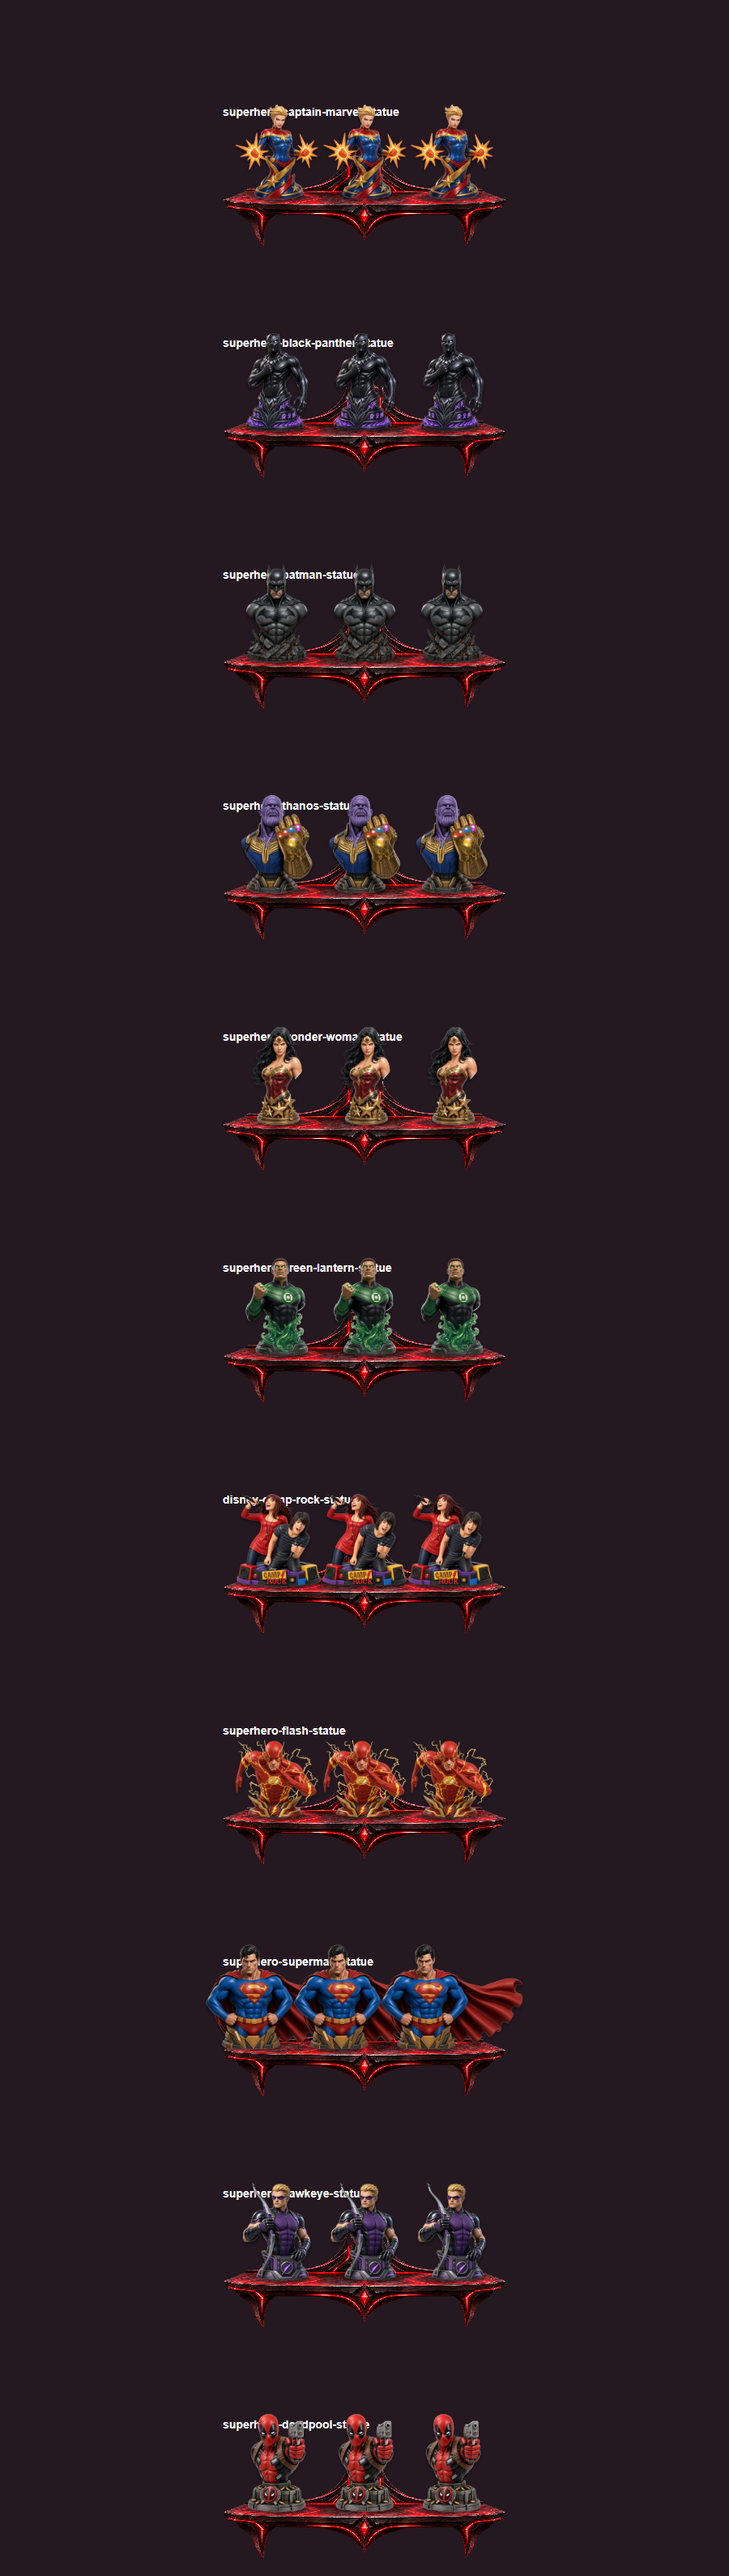
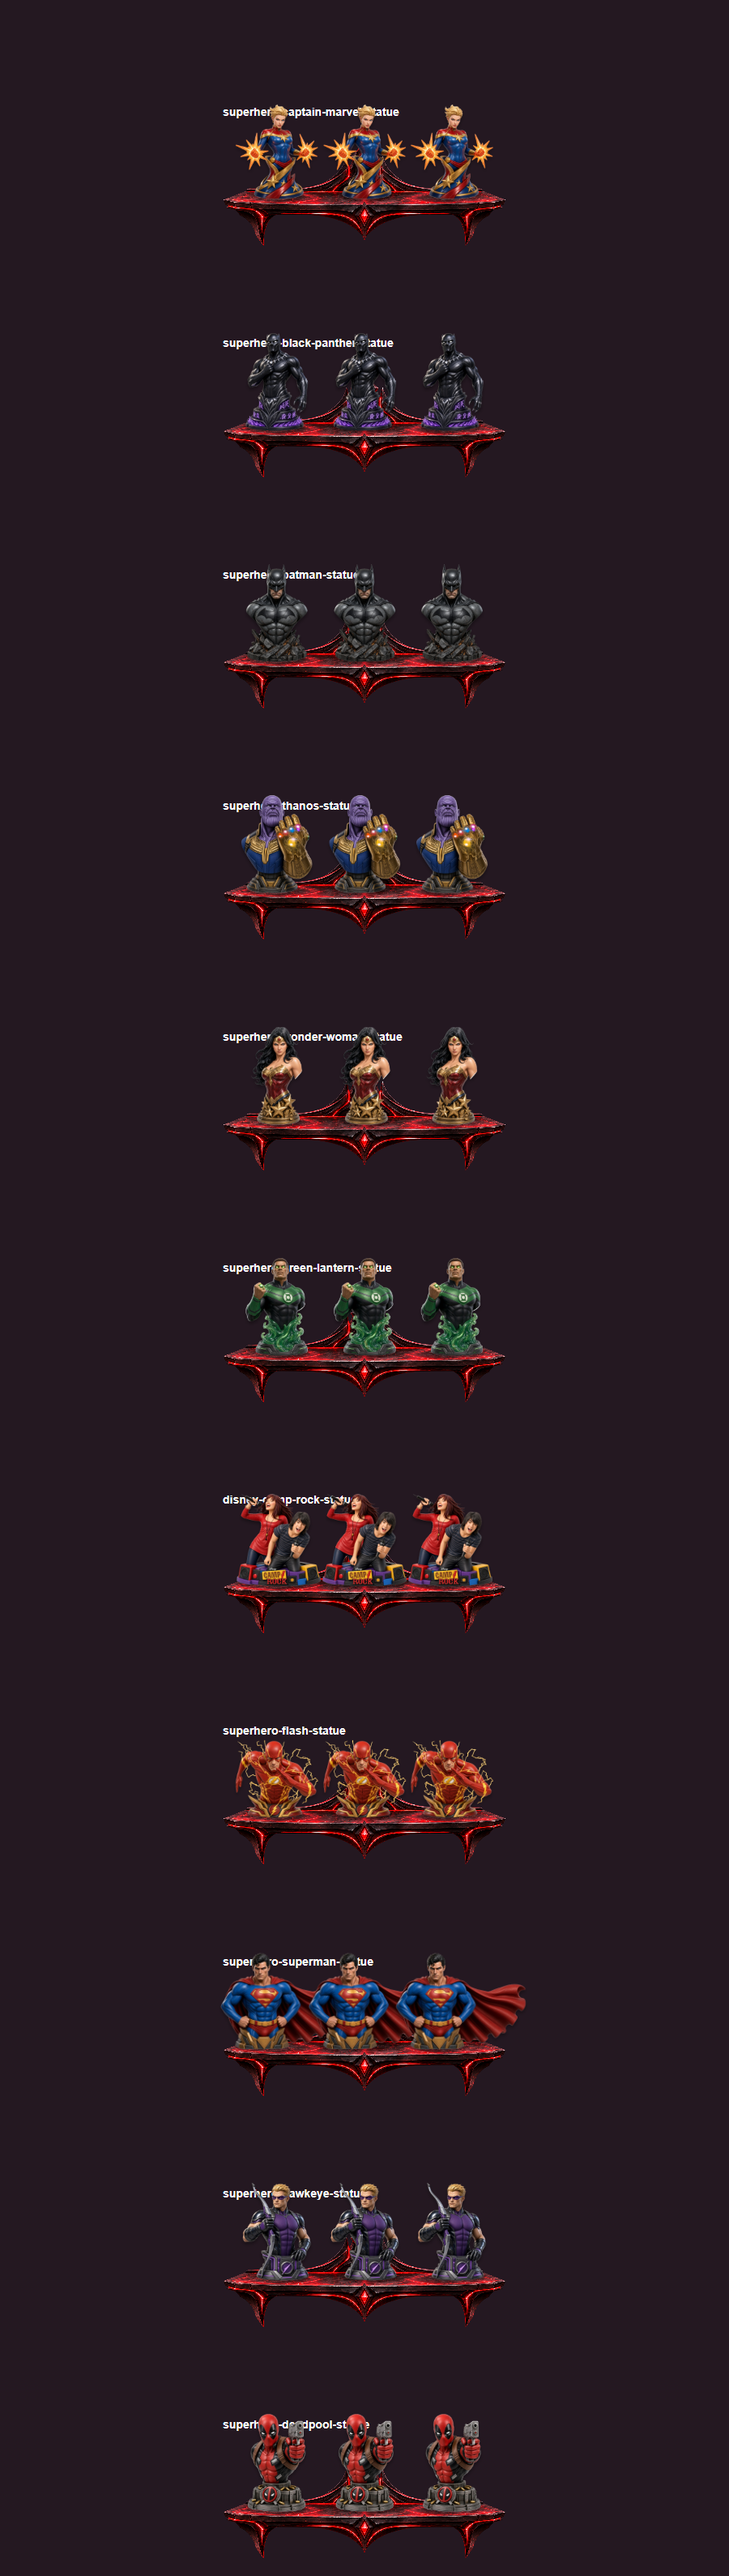
Add music and Disney statues and adjust Superman size and position

Changed region(s): [[0.28, 0.7476, 0.7156, 0.8099]]

diff --git a/collectible-shelf.js b/collectible-shelf.js
@@ -112,6 +112,8 @@
   rows.push(['Disney', ['disney-prince-eric-bust','Prince Eric Bust'], ['disney-pocahontas-bust','Pocahontas Bust'], ['disney-genie-bust','Genie Bust']]);
   rows.push(['Superheroes', ['superhero-winter-soldier-bust','Winter Soldier Bust'], ['superhero-iron-man-bust','Iron Man Bust'], ['superhero-black-widow-bust','Black Widow Bust'], ['superhero-captain-america-bust','Captain America Bust'], ['superhero-juggernaut-bust','Juggernaut Bust'], ['superhero-sabretooth-bust','Sabretooth Bust'], ['superhero-spider-man-bust','Spider-Man Bust'], ['superhero-wolverine-bust','Wolverine Bust'], ['superhero-loki-bust','Loki Bust'], ['superhero-hulk-bust','Hulk Bust'], ['superhero-thor-bust','Thor Bust']]);
   rows.push(['Music', ['michael-jackson-blue-bust','Michael Jackson Blue Base Bust'], ['michael-jackson-gold-bust','Michael Jackson Gold Base Bust']]);
+  rows.push(['Music', ['music-pop-singer-statue','Pop Singer Guitar Statue']]);
+  rows.push(['Disney', ['disney-lilo-stitch-statue','Lilo & Stitch Surfing Statue'], ['disney-moana-statue','Moana Statue']]);
   rows.push(['Superheroes', ['superhero-captain-marvel-statue','Captain Marvel Statue'], ['superhero-black-panther-statue','Black Panther Statue'], ['superhero-batman-statue','Batman Statue'], ['superhero-thanos-statue','Thanos Statue'], ['superhero-wonder-woman-statue','Wonder Woman Statue'], ['superhero-green-lantern-statue','Green Lantern Statue'], ['superhero-flash-statue','The Flash Statue'], ['superhero-superman-statue','Superman Statue'], ['superhero-hawkeye-statue','Hawkeye Statue'], ['superhero-deadpool-statue','Deadpool Statue']]);
   rows.push(['Disney', ['disney-camp-rock-statue','Camp Rock Statue']]);
   rows.push(['Pokémon', ['pokemon-lugia-statue','Lugia Statue'], ['pokemon-ash-statue','Ash Ketchum Statue'], ['pokemon-ho-oh-statue','Ho-Oh Statue'], ['pokemon-jigglypuff-statue','Jigglypuff Statue'], ['pokemon-groudon-statue','Groudon Statue'], ['pokemon-entei-statue','Entei Statue']]);
@@ -133,6 +135,9 @@
   const clean = value => valid(value) ? { enabled: value.enabled, slots: value.slots.map(id => replacements[id] || id), theme:value.theme || 'crimson' } : { enabled: true, slots: ['horse', 'crystal', 'planet'], theme:'crimson' };
   const name = id => items.find(item => item.id === id)?.name || 'Empty spot';
   const standalone = {
+    'music-pop-singer-statue': {"source":"assets/shelf-music-pop-singer-statue.png","width":1680,"height":1184,"bounds":[300,10,949,1153],"displaySize":330,"displayWidth":280},
+    'disney-lilo-stitch-statue': {"source":"assets/shelf-disney-lilo-stitch-statue.png","width":1504,"height":1312,"bounds":[130,46,1247,1230],"displaySize":330,"displayWidth":280},
+    'disney-moana-statue': {"source":"assets/shelf-disney-moana-statue.png","width":992,"height":1984,"bounds":[25,53,967,1831],"displaySize":330,"displayWidth":280},
     'superhero-captain-marvel-statue': {"source":"assets/shelf-superhero-captain-marvel-statue.png","width":1296,"height":1520,"bounds":[19,11,1272,1455],"displaySize":330,"displayWidth":280},
     'superhero-black-panther-statue': {"source":"assets/shelf-superhero-black-panther-statue.png","width":1360,"height":1456,"bounds":[255,17,904,1401],"displaySize":330,"displayWidth":280},
     'superhero-batman-statue': {"source":"assets/shelf-superhero-batman-statue.png","width":1136,"height":1744,"bounds":[51,41,1042,1645],"displaySize":330,"displayWidth":280},
@@ -141,7 +146,7 @@
     'superhero-green-lantern-statue': {"source":"assets/shelf-superhero-green-lantern-statue.png","width":1136,"height":1728,"bounds":[46,66,1005,1579],"displaySize":330,"displayWidth":280},
     'disney-camp-rock-statue': {"source":"assets/shelf-disney-camp-rock-statue.png","width":1600,"height":1200,"bounds":[265,5,1076,1178],"displaySize":330,"displayWidth":280},
     'superhero-flash-statue': {"source":"assets/shelf-superhero-flash-statue.png","width":2000,"height":992,"bounds":[510,0,1029,962],"displaySize":330,"displayWidth":280},
-    'superhero-superman-statue': {"source":"assets/shelf-superhero-superman-statue.png","width":1792,"height":1008,"bounds":[319,0,1329,983],"displaySize":480,"displayWidth":480},
+    'superhero-superman-statue': {"source":"assets/shelf-superhero-superman-statue.png","width":1792,"height":1008,"bounds":[319,0,1329,983],"displaySize":440,"displayWidth":440,"displayOffsetX":30},
     'superhero-hawkeye-statue': {"source":"assets/shelf-superhero-hawkeye-statue.png","width":1200,"height":1600,"bounds":[53,43,1038,1484],"displaySize":330,"displayWidth":280},
     'superhero-deadpool-statue': {"source":"assets/shelf-superhero-deadpool-statue.png","width":1232,"height":1600,"bounds":[199,82,859,1442],"displaySize":330,"displayWidth":280},
     'pokemon-lugia-statue': {"source":"assets/shelf-pokemon-lugia-statue.png","width":1408,"height":1408,"bounds":[209,17,1015,1360],"displaySize":330,"displayWidth":280},
@@ -389,7 +394,7 @@
     // stretching the plate or moving its contact point off the shared baseline.
     const scale = Math.min((thumbnail ? 330 : (asset?.displaySize || 330)) / Math.max(w,h), (asset?.displayWidth || (car ? 270 : 240)) / w);
     const height = 350;
-    return `<svg class="shelf-object${anime ? ' shelf-object-anime' : ''}${asset?.displaySize && !thumbnail ? ' shelf-tall-object' : ''}" style="aspect-ratio:220 / ${height}" role="img" aria-label="${item.name}" viewBox="0 0 220 ${height}"><svg x="${(220-w*scale)/2}" y="${height-4-h*scale}" width="${w*scale}" height="${h*scale}" viewBox="${x} ${y} ${w} ${h}" overflow="hidden"><image href="${source}" width="${asset?.width || 1254}" height="${asset?.height || 1254}"${asset?.clip ? ` style="clip-path:${asset.clip};clip-rule:nonzero"` : ''}/></svg></svg>`;
+    return `<svg class="shelf-object${anime ? ' shelf-object-anime' : ''}${asset?.displaySize && !thumbnail ? ' shelf-tall-object' : ''}" style="aspect-ratio:220 / ${height}" role="img" aria-label="${item.name}" viewBox="0 0 220 ${height}"><svg x="${(220-w*scale)/2 + (thumbnail ? 0 : (asset?.displayOffsetX || 0))}" y="${height-4-h*scale}" width="${w*scale}" height="${h*scale}" viewBox="${x} ${y} ${w} ${h}" overflow="hidden"><image href="${source}" width="${asset?.width || 1254}" height="${asset?.height || 1254}"${asset?.clip ? ` style="clip-path:${asset.clip};clip-rule:nonzero"` : ''}/></svg></svg>`;
   }
   function art(value, interactive = false, active = 0) {
     const state = clean(value);

diff --git a/work/verify-music-disney.js b/work/verify-music-disney.js
@@ -1,7 +1,7 @@
 const fs=require('fs'),path=require('path'),assert=require('assert/strict'),{chromium}=require('playwright'),shelf=require('../collectible-shelf');
-const ids=["superhero-captain-marvel-statue","superhero-black-panther-statue","superhero-batman-statue","superhero-thanos-statue","superhero-wonder-woman-statue","superhero-green-lantern-statue","disney-camp-rock-statue","superhero-flash-statue","superhero-superman-statue","superhero-hawkeye-statue","superhero-deadpool-statue"];
+const ids=["music-pop-singer-statue","disney-lilo-stitch-statue","disney-moana-statue"];
 (async()=>{
-for(const id of ids)assert.equal(shelf.items.find(i=>i.id===id).category,id.startsWith('disney-')?'Disney':'Superheroes');
+for(const id of ids)assert.equal(shelf.items.find(i=>i.id===id).category,id.startsWith('disney-')?'Disney':'Music');
 const selections=ids.map(id=>({enabled:true,theme:'crimson',slots:[id,id,id]}));
 for(const s of selections){assert(shelf.valid(s));assert.deepEqual(shelf.clean(s),s);}
 const browser=await chromium.launch({executablePath:'C:/Program Files (x86)/Google/Chrome/Application/chrome.exe',headless:true});
@@ -15,15 +15,14 @@ await page.setViewportSize({width,height:900});
 await page.evaluate(async()=>{await Promise.all([...document.querySelectorAll('image')].map(i=>new Promise((ok,bad)=>{const img=new Image();img.onload=ok;img.onerror=bad;img.src=i.getAttribute('href');})));});
 const boxes=await page.locator('.shelf-object > svg').evaluateAll(ns=>ns.map(n=>{const r=n.parentElement.getBoundingClientRect(),s=r.width/220,l=r.left+Number(n.getAttribute('x'))*s;return {l,r:l+Number(n.getAttribute('width'))*s,base:+n.getAttribute('y')+ +n.getAttribute('height'),h:+n.getAttribute('height')};}));
 assert(boxes.every(b=>Math.abs(b.base-346)<.01));
-assert(boxes[ids.indexOf('superhero-superman-statue')*3].h>320 && boxes[ids.indexOf('superhero-superman-statue')*3].h<330);
 // Superman intentionally has a wider cape; other figures must not overlap.
 for(let i=0;i<boxes.length;i+=3)if(ids[i/3]!=='superhero-superman-statue')assert(boxes[i].r<boxes[i+1].l&&boxes[i+1].r<boxes[i+2].l);
 assert(await page.evaluate(()=>document.documentElement.scrollWidth<=innerWidth));
-await page.screenshot({path:'work/new-heroes-'+width+'.png',fullPage:true});
+await page.screenshot({path:'work/music-disney-'+width+'.png',fullPage:true});
 await page.evaluate(selected=>CollectibleShelf.open({selected,save:async value=>{window.saved=value;return value;},onSave:()=>{}}),selections[0]);
 
 for(const id of ids){
-await page.locator('#shelfCategory').selectOption(id.startsWith('disney-')?'Disney':'Superheroes');
+await page.locator('#shelfCategory').selectOption(id.startsWith('disney-')?'Disney':'Music');
 await page.locator('#shelfSearch').fill(shelf.items.find(i=>i.id===id).name);
 assert(await page.locator('[data-shelf-item="'+id+'"]').isVisible());
 await page.locator('[data-shelf-item="'+id+'"]').click();
@@ -31,6 +30,6 @@ await page.locator('[data-shelf-item="'+id+'"]').click();
 await page.locator('#saveShelf').click();
 assert.equal((await page.evaluate(()=>window.saved)).slots[0],ids[ids.length-1]);
 }
-console.log('Eleven additions passed category, image loading, save, baseline and desktop/mobile checks; Superman cape overlap is intentional.');
+console.log('Three statues passed category, image loading, save, alignment and desktop/mobile checks.');
 }finally{await browser.close();}
 })().catch(e=>{console.error(e);process.exitCode=1;});

diff --git a/work/measure-music-disney.js b/work/measure-music-disney.js
@@ -1,0 +1,1 @@
+const sharp=require('sharp'); (async()=>{for(const id of ["music-pop-singer-statue","disney-lilo-stitch-statue","disney-moana-statue"]){const source='assets/shelf-'+id+'.png';const {data,info}=await sharp(source).ensureAlpha().raw().toBuffer({resolveWithObject:true});let l=info.width,t=info.height,r=0,b=0;for(let y=0;y<info.height;y++)for(let x=0;x<info.width;x++){const i=(y*info.width+x)*4;if(data[i+3]>32&&Math.min(data[i],data[i+1],data[i+2])<220){l=Math.min(l,x);t=Math.min(t,y);r=Math.max(r,x);b=Math.max(b,y);}}l=Math.max(0,l-5);t=Math.max(0,t-5);r=Math.min(info.width-1,r+5);b=Math.min(info.height-1,b+5);console.log(JSON.stringify({id,source,width:info.width,height:info.height,bounds:[l,t,r-l+1,b-t+1],displaySize:330,displayWidth:280}));}})();

diff --git a/index.html b/index.html
@@ -25,7 +25,7 @@
 
   <script src="launchpad-scenes.js?v=20261001-jdm-v46"></script>
   <script src="profile-banners.js?v=20260928-more-sets-v10"></script>
-<script src="collectible-shelf.js?v=20261002-new-superheroes-v74"></script>
+<script src="collectible-shelf.js?v=20261002-music-disney-superman-v75"></script>
   <script src="app.js?v=20261001-dual-shelves-v97"></script>
   <script src="colt-assistant.js?v=20260905-lazy-artwork-v2"></script>
   <script src="colt-radio.js?v=20260927-country-afropulse-v27"></script>
